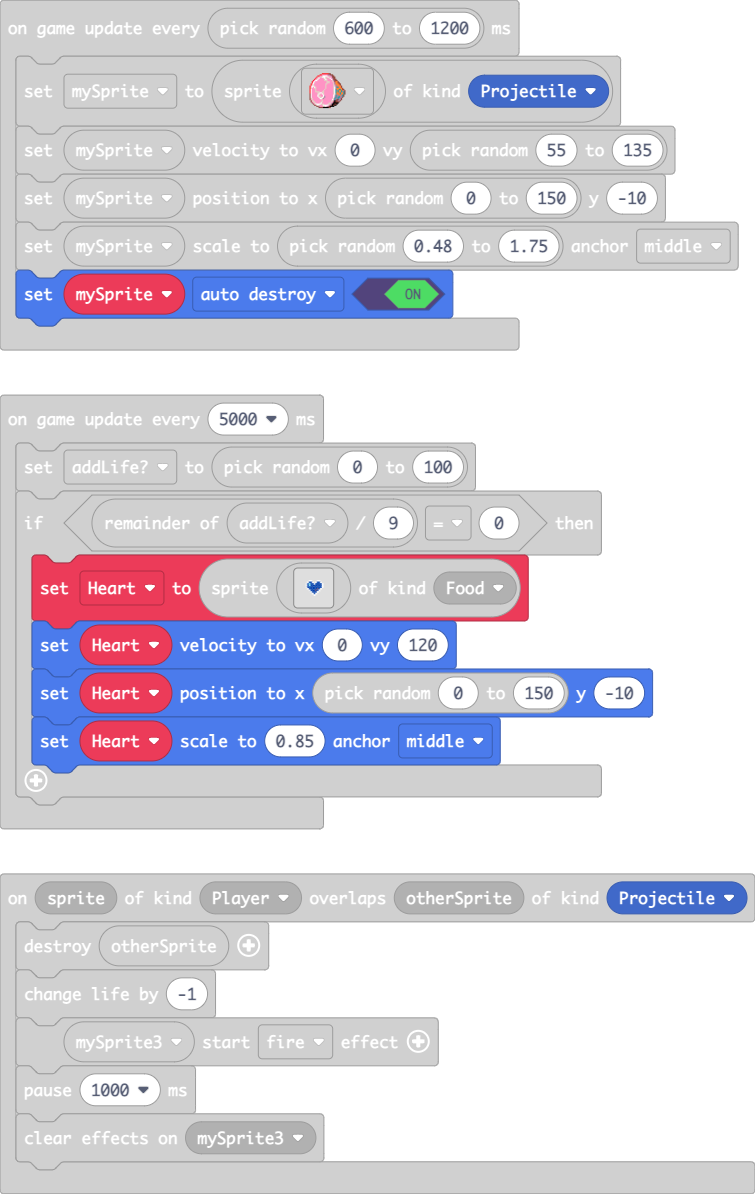
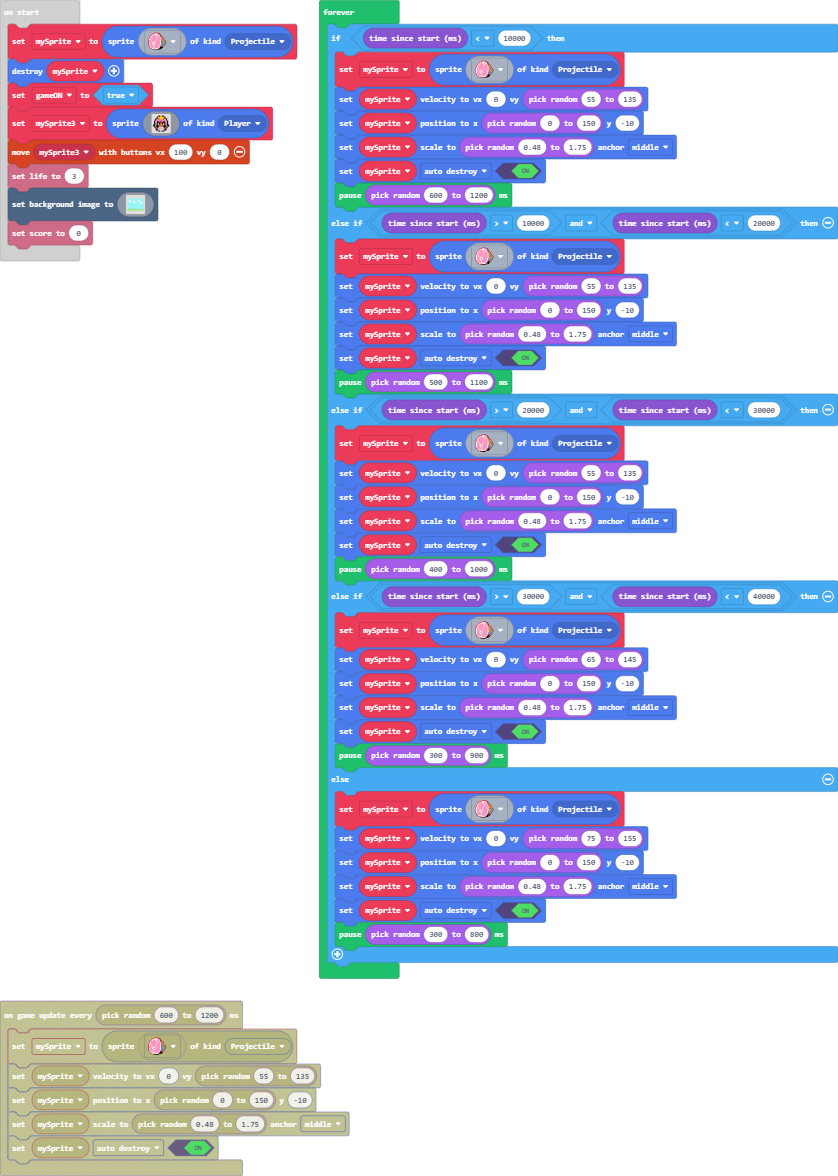
Added a speed change over time, game gets harder.

diff --git a/main.ts b/main.ts
@@ -25,8 +25,9 @@ let myBPM = 0
 let music_rate = 0
 let Heart: Sprite = null
 let addLife = 0
-let mySprite: Sprite = null
 let mySprite3: Sprite = null
+let mySprite = sprites.create(sprites.food.bigHam, SpriteKindLegacy.Projectile)
+mySprite.destroy()
 let gameON = true
 mySprite3 = sprites.create(img`
     . . . . . f f 4 4 f f . . . . . 
@@ -188,13 +189,6 @@ game.onUpdateInterval(5000, function () {
         Heart.setScale(0.85, ScaleAnchor.Middle)
     }
 })
-game.onUpdateInterval(randint(600, 1200), function () {
-    mySprite = sprites.create(sprites.food.bigHam, SpriteKindLegacy.Projectile)
-    mySprite.setVelocity(0, randint(55, 135))
-    mySprite.setPosition(randint(0, 150), -10)
-    mySprite.setScale(randint(0.48, 1.75), ScaleAnchor.Middle)
-    mySprite.setFlag(SpriteFlag.AutoDestroy, true)
-})
 forever(function () {
     music_rate += 15
     myBPM = 120 + music_rate
@@ -209,5 +203,43 @@ forever(function () {
         mySprite.destroy()
         mySprite3.destroy()
         game.over(false)
+    }
+})
+forever(function () {
+    if (game.runtime() < 10000) {
+        mySprite = sprites.create(sprites.food.bigHam, SpriteKindLegacy.Projectile)
+        mySprite.setVelocity(0, randint(55, 135))
+        mySprite.setPosition(randint(0, 150), -10)
+        mySprite.setScale(randint(0.48, 1.75), ScaleAnchor.Middle)
+        mySprite.setFlag(SpriteFlag.AutoDestroy, true)
+        pause(randint(600, 1200))
+    } else if (game.runtime() > 10000 && game.runtime() < 20000) {
+        mySprite = sprites.create(sprites.food.bigHam, SpriteKindLegacy.Projectile)
+        mySprite.setVelocity(0, randint(55, 135))
+        mySprite.setPosition(randint(0, 150), -10)
+        mySprite.setScale(randint(0.48, 1.75), ScaleAnchor.Middle)
+        mySprite.setFlag(SpriteFlag.AutoDestroy, true)
+        pause(randint(500, 1100))
+    } else if (game.runtime() > 20000 && game.runtime() < 30000) {
+        mySprite = sprites.create(sprites.food.bigHam, SpriteKindLegacy.Projectile)
+        mySprite.setVelocity(0, randint(55, 135))
+        mySprite.setPosition(randint(0, 150), -10)
+        mySprite.setScale(randint(0.48, 1.75), ScaleAnchor.Middle)
+        mySprite.setFlag(SpriteFlag.AutoDestroy, true)
+        pause(randint(400, 1000))
+    } else if (game.runtime() > 30000 && game.runtime() < 40000) {
+        mySprite = sprites.create(sprites.food.bigHam, SpriteKindLegacy.Projectile)
+        mySprite.setVelocity(0, randint(65, 145))
+        mySprite.setPosition(randint(0, 150), -10)
+        mySprite.setScale(randint(0.48, 1.75), ScaleAnchor.Middle)
+        mySprite.setFlag(SpriteFlag.AutoDestroy, true)
+        pause(randint(300, 900))
+    } else {
+        mySprite = sprites.create(sprites.food.bigHam, SpriteKindLegacy.Projectile)
+        mySprite.setVelocity(0, randint(75, 155))
+        mySprite.setPosition(randint(0, 150), -10)
+        mySprite.setScale(randint(0.48, 1.75), ScaleAnchor.Middle)
+        mySprite.setFlag(SpriteFlag.AutoDestroy, true)
+        pause(randint(300, 800))
     }
 })
